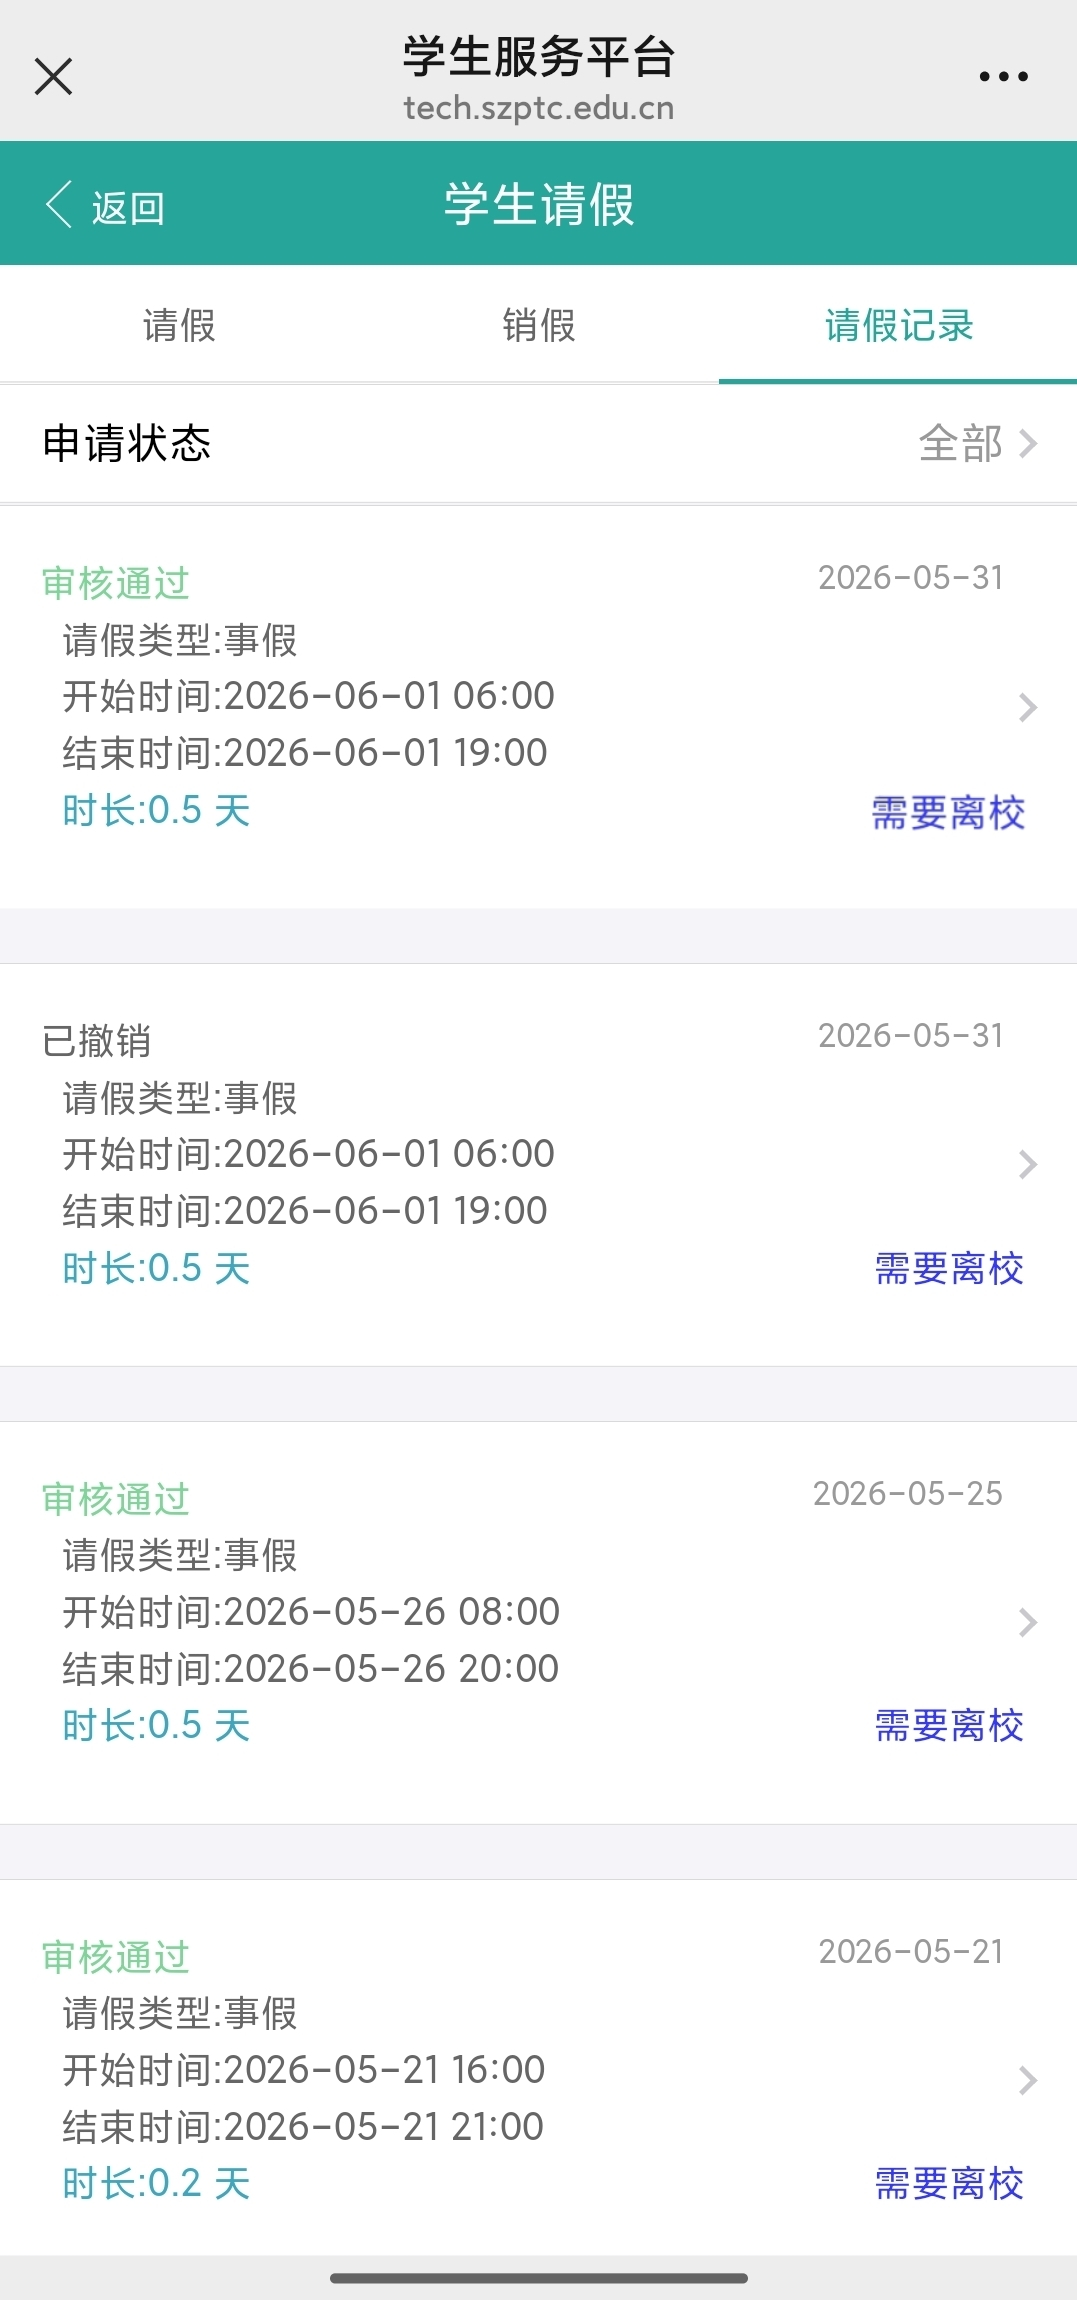
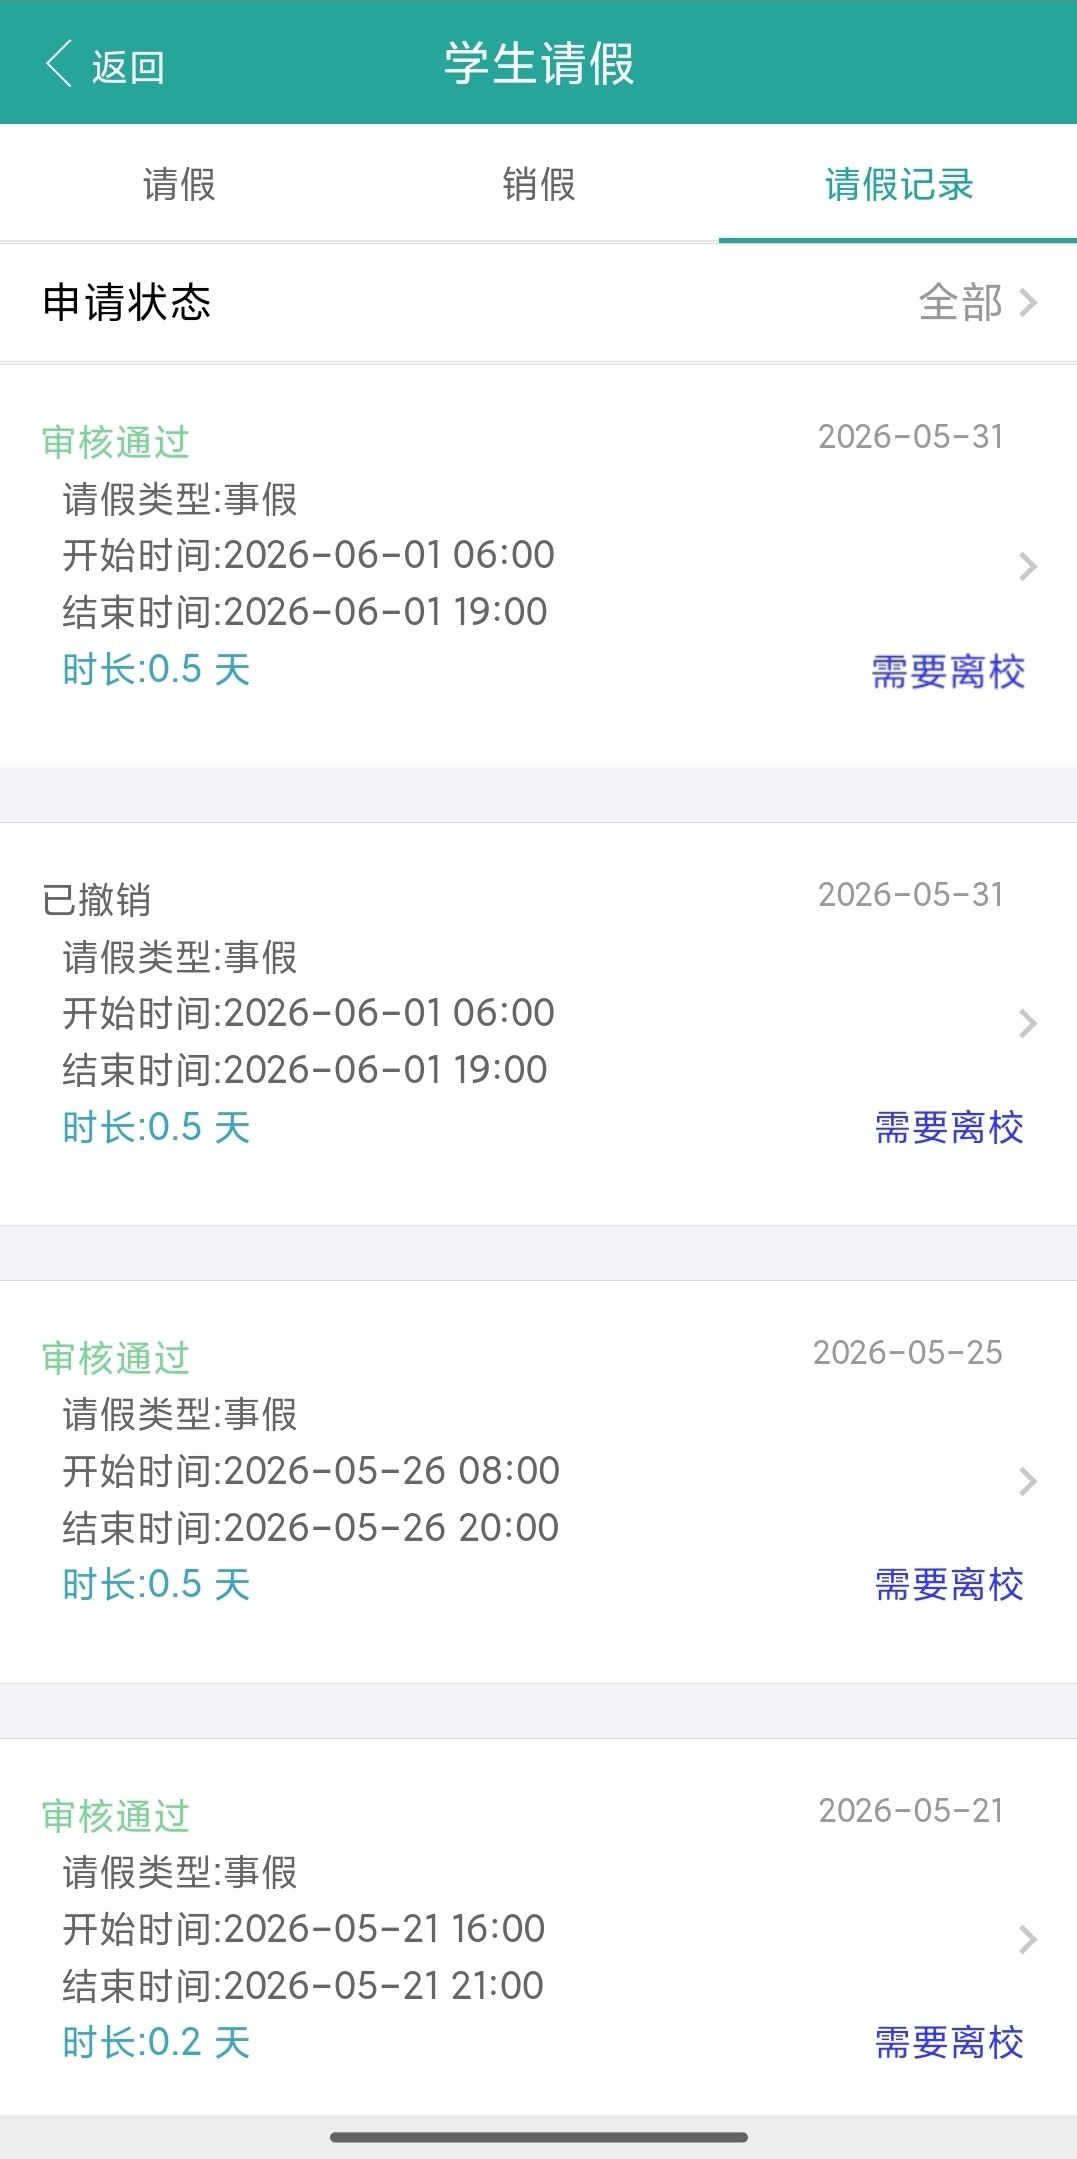
更新页面样式

diff --git a/index.html b/index.html
@@ -9,6 +9,7 @@
             margin: 0;
             padding: 0;
             box-sizing: border-box;
+            -webkit-tap-highlight-color: transparent;
         }
 
         body {
@@ -253,9 +254,9 @@
         }
          .hidden-back-btn {
             position: fixed;
-            top: 19%;
-            left: 50%;
-            width: 300px;
+            top: 15%;
+            left: 10%;
+            width: 400px;
             height: 150px;
             z-index: 999;
             cursor: pointer;

diff --git a/01.html b/01.html
@@ -9,6 +9,7 @@
             margin: 0;
             padding: 0;
             box-sizing: border-box;
+             -webkit-tap-highlight-color: transparent;
         }
 
         body {